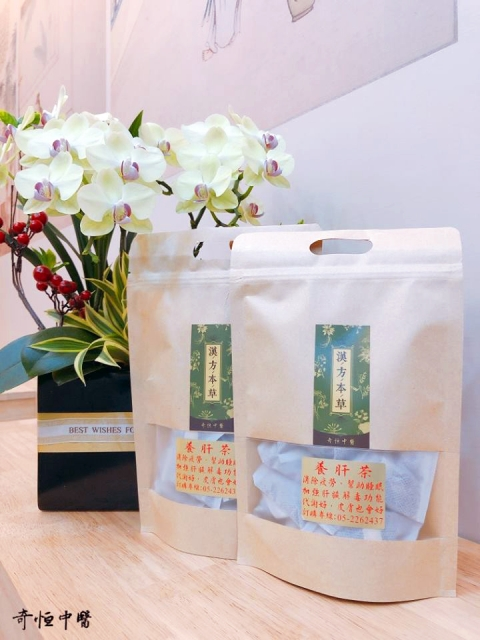
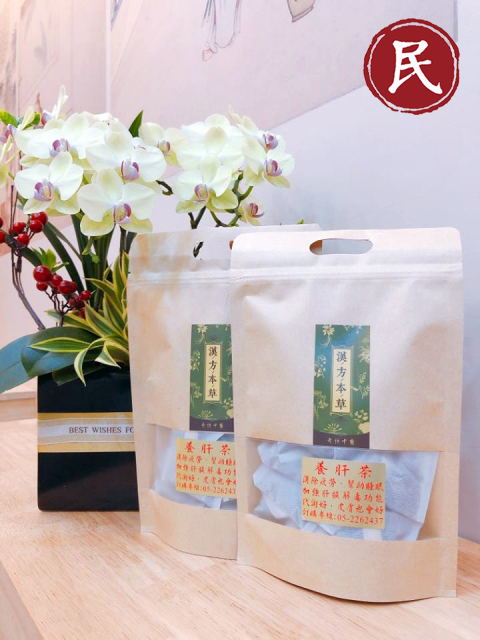
await

Changed region(s): [[0.75, 0.0312, 0.9688, 0.1875], [0.0312, 0.9375, 0.1875, 1.0]]

diff --git a/index.html b/index.html
@@ -93,34 +93,6 @@ $(function(){
         <h1>中醫診所</h1>
         <p>奇恒中醫診所堅持使用品質優良的中藥材，以確保病患的用藥安全，是您值得信賴的中醫診所。奇恒中醫自成立以來，就用心傳承中醫的智慧，致力於推廣給社會大眾，以溫和不傷害人體的治療方式，守護您的身體健康。如果您想找專業的南屯中醫，歡迎指名奇恒中醫，相信您一定滿意。</p>
         <h2>台中中醫診所最新活動</h2>
-        <!-- <ul>
-            <li>中秋月圓，人也"圓"?中秋烤肉吃太油嗎?不怕不怕，趕快來一杯『減脂茶』幫你代謝多餘油脂，讓身體無負擔<br />
-                <img src="/uploads/images/yi1.jpg" width="450px" height="450px" /></li>
-            <li>隨著時間的經過，你是否感覺皮膚不如以前般潤澤有彈性，體力大不如前，明明還覺得很年輕身體卻不聽使喚；你需要從內煥發光彩改變一個習慣，找回您的青春活力；奇恒中醫固衝丸讓您青春有活力<br />
-                <img src="/uploads/images/yi2.jpg" width="450px" height="450px" /></li>
-            <li>想擺脫鮪魚肚讓油脂不殘留嗎?試試『減脂茶』漢方活力飲，幫助脂肪代謝 成分天然不傷身，搭配運動效果更好<br />
-                <img src="/uploads/images/yi3.jpg" width="450px" height="450px" /></li>
-            <li>奇恒中醫診所回饋廣大好友們的夏末抽獎活動來囉<br />
-                這次提供抽獎的獎品是含有漢方草本精華與珍珠粉的淡斑皂及亮白皂，天然不刺激，能透過洗臉消除肌膚暗沉並提高肌膚保水度，幫助平衡肌膚機能，恢復透亮光采<br />
-                獎項:亮白皂*1 (價值500元)、淡斑皂*1(價值500元)<br />
-                <img src="/uploads/images/yi4.jpg" width="450px" height="450px" /></li>
-            <li>益母草 處理經痛，用過很多人 效果都很好，優點是價格很便宜，容易取得<br />
-                用益母草2兩，用1200到1500 CC的水，大火煮開 轉小火，再煮10到15分鐘，加入粗花紅糖，待水降溫就可以當成茶喝，只要在月經 前一天或經期頭兩天喝就可以了 希望大家可以多多使用，平時可用調經丸調理體質 養護身體喔<br />
-                <img src="/uploads/images/yi5.jpg" width="450px" height="450px" /></li>
-            <li>肝臟的功能健全與否，也關係到皮膚的健康。「肝藏血」，如果肝機能出問題，血液循環、代謝的功能就會變差，最直接反映出來的，就是膚色暗沉、面色蠟黃、黑斑等問題。<br />
-                『淡斑皂』富含漢方草本精華，天然不刺激，掃除肌膚暗沉，幫助平衡肌膚機能，恢復透亮光采。<br />
-                <img src="/uploads/images/yi6.jpg" width="450px" height="450px" /></li>
-            <li>抗痘皂，富含多種漢方抗痘草本，研發同時我們加入蝸牛精華，就是為了清潔肌膚，又能保有水嫩感。這種洗後清爽又不緊繃的滑嫩感，體驗過的人都說回不去了<br />
-                <img src="/uploads/images/yi7.jpg" width="450px" height="450px" /></li>
-            <li>歡慶父親節：購買洗面皂 一塊皂188 兩塊皂288 三塊皂388<br />
-                <img src="/uploads/images/yi8.jpg" width="450px" height="450px" /></li>
-            <li>時常聽到患者誇讚吳醫師很nice，謙和有禮、耐心傾聽、不催促病人、看診細心、講解詳細，讓人很安心；其實我們提供的不只是專業的醫療，我們在乎您。<br />
-                <img src="/uploads/images/yi9.jpg" width="450px" height="450px" /></li>
-            <li>我全家都給奇恒中醫診所看，我跟我媽變的很好入眠，老婆的月事也變得更順暢，女兒的肚子脹氣好很多會在學校便便了，兒子的咳嗽看西醫看不好，吃了中藥一週後，不太會咳了.....以前有看過其他中醫都沒這麼有效果，大家一定要來給奇恒中醫看看唷！<br />
-                <img src="/uploads/images/yi10.jpg" width="450px" height="450px" /></li>
-            <li>門診時間異動通知<br />
-                9/9起『每週二、週四』下午門診時間將更改至13:30-16:30，造成不便，敬請見諒</li>
-        </ul> -->
         <h3>門診預約時間</h3>
         <table border="1">
             <tr>
@@ -226,16 +198,21 @@ $(function(){
 <div class="col-xs-12 item_1"><iframe allowfullscreen="" frameborder="0" height="240" src="https://www.google.com/maps/embed?pb=!1m18!1m12!1m3!1d1287.1432479991845!2d120.6459040405296!3d24.151001989473578!2m3!1f0!2f0!3f0!3m2!1i1024!2i768!4f13.1!3m3!1m2!1s0x34693d9595d202ad%3A0x2c66a05e38d9251f!2zNDA45Y-w5Lit5biC5Y2X5bGv5Y2A5paH5b-D6Lev5LiA5q61NDI46Jmf!5e0!3m2!1szh-TW!2stw!4v1564033168254!5m2!1szh-TW!2stw" style="border:0" width="100%"></iframe></div>
 
 <div class="col-xs-12 item_2">
-<div class="col-xs-12 col-md-4 box_1"><a href="https://goo.gl/maps/6wcAxhm8qXN8GceZ9" target="_blank">台中市南屯區文心路一段428號</a></div>
+<div class="col-xs-12 col-md-4 box_1"><a href="#" target="_blank">地址：台灣台中市龍井區新興路121號</a></div>
 
 <div class="col-xs-12 col-md-4 box_2"><a href="tel:04-23276666">04-23276666</a></div>
 
-<div class="col-xs-12 col-md-4 box_3"><a href="http://line.me/ti/p/%40hgm8490n" target="_blank">@hgm8490n</a></div>
+<div class="col-xs-12 col-md-4 box_3"><a href="https://line.me/ti/p/IrHvYVVt4i" target="_blank">@025596424901</a></div>
 </div>
 </div>
 </div>
-    <div class="col-xs-12 hidden-xs hidden-sm"><a href="index.html">台中、南屯中醫診所</a>　·　<a href="nerve.html">台中自律神經失調、偏頭痛</a>　·　<a href="fatigue.html">台中慢性疲勞</a>　·　<a href="rhinitis.html">台中過敏性鼻炎</a></div>
-      <div class="col-xs-12 copyright">奇恒中醫 版權所有 © Copyright 2019 . All Rights Reserved.</div>
+    <div class="col-xs-12 hidden-xs hidden-sm" style="padding: 0 35px;">
+      依照台灣『醫療機構網際網路資訊管理辦法』規定：
+
+禁止任何網際網路服務業者轉錄其網路資訊之內容供人點閱。但以網路搜尋或超連結方式，進入醫療機構之網址（域）直接點閱者，不在此限。
+      <!-- <a href="index.html">民生堂中醫診所 </a>　·　<a href="#">自律神經失調、偏頭痛</a>　·　<a href="#">慢性疲勞</a>　·　<a href="#">過敏性鼻炎</a> -->
+    </div>
+      <div class="col-xs-12 copyright">民生堂 版權所有 © Copyright 2019 . All Rights Reserved.</div>
     </div>
 </div>
 <!-- Global site tag (gtag.js) - Google Analytics -->
@@ -252,65 +229,8 @@ $(function(){
   <div class="szmp">
   <img src="/images/sz01.png">
   </div>
-  <div class="szmail"><a href="https://www.facebook.com/pg/%E5%A5%87%E6%81%92%E4%B8%AD%E9%86%AB%E5%A5%BD%E6%9C%8B%E5%8F%8B-162738288007232/" target="_blank"><img src="/images/f03.png"></a></div>  <!-- <div class="szline"><a href="line://ti/p/@hgm8490n" target="_blank"><img src="/images/l03.png"></a></div> -->
-  <!-- <div class="szface"><a href="mailto:t910179@gmail.com"><img src="/images/m03.png"></a></div> -->
-  <!--  -->
-  <!--  -->
+  <div class="szmail"><a href=" https://www.facebook.com/TWminshengtang" target="_blank"><img src="/images/f03.png"></a></div>  
 </div>
 
-<!-- <div id="szpop" class="FixedTop">
-  <div class="szmp"><span class="glyphicon glyphicon-plus"></span></div>
-  <div class="szmsg"><a href="./"><span class="glyphicon glyphicon-home"></span></a></div>
-  <div class="szcall"><a href="tel:04-23276666"><span class="glyphicon glyphicon-earphone"></span></a></div>
-  <div class="szlist"><a href="#"><span class="glyphicon glyphicon-arrow-up"></span></a></div>
-  <div class="szhide"><span class="glyphicon glyphicon-remove"></span></div>
-</div> -->
-
-
-<div class="modal fade bs-example-modal-sm" id="myModal" tabindex="-1" role="dialog" aria-labelledby="myModalLabel" aria-hidden="true">
-  <div class="modal-dialog modal-sm">
-    <div class="modal-content">
-      <div class="modal-header">
-        <button type="button" class="close" data-dismiss="modal" aria-label="Close"><span aria-hidden="true">&times;</span></button>
-        <div class="modal-title" id="myModalLabel">用戶登錄</div>
-      </div>
-      <form action="member-checklogin.html" method="post" class="form-horizontal" role="form">
-      <div class="modal-body">
-        <div class="col-xs-12" style="padding-bottom:10px;">
-          <div class="form-group">
-            <label class="col-xs-3 control-label">帳 號</label>
-            <div class="col-xs-9">
-              <input type="text" class="form-control" name="email">
-            </div>
-          </div>
-          <div class="form-group">
-            <label class="col-xs-3 control-label">密 碼</label>
-            <div class="col-xs-9 ">
-              <input type="password" class="form-control" name="password">
-            </div>
-          </div>
-          <div class="form-group" style=" margin-bottom:0px;">
-            <label class="col-xs-3 control-label" style="padding-right:0px; padding-top:5px;">驗證碼</label>
-            <div class="col-xs-9">
-              <input type="text" class="form-control" name="code" style="width:80px; float:left;">
-              <label class=" control-label" style="padding-left:10px; width:80px; padding-top:5px;"><img src="config/newcode.php" /></label>
-            </div>
-          </div>
-        </div>
-        <div class="col-xs-6" style="padding-right:5px;">
-          <button type="submit" class="btn btn-danger btn-block">立即登入</button>
-        </div>
-        <div class="col-xs-6" style="padding-left:5px;">
-          <button type="button" class="btn btn-primary btn-block" onclick="location.href='member-register.html'">會員註冊</button>
-        </div>
-        <div class="clear"></div>
-        <div class="col-xs-12" style="text-align:right;padding:3px 10px 0 0;">
-          <a href="member-forget.html">忘記密碼？</a>
-        </div>
-      </div>
-      </form>
-    </div>
-  </div>
-</div>
 </body>
 </html>
